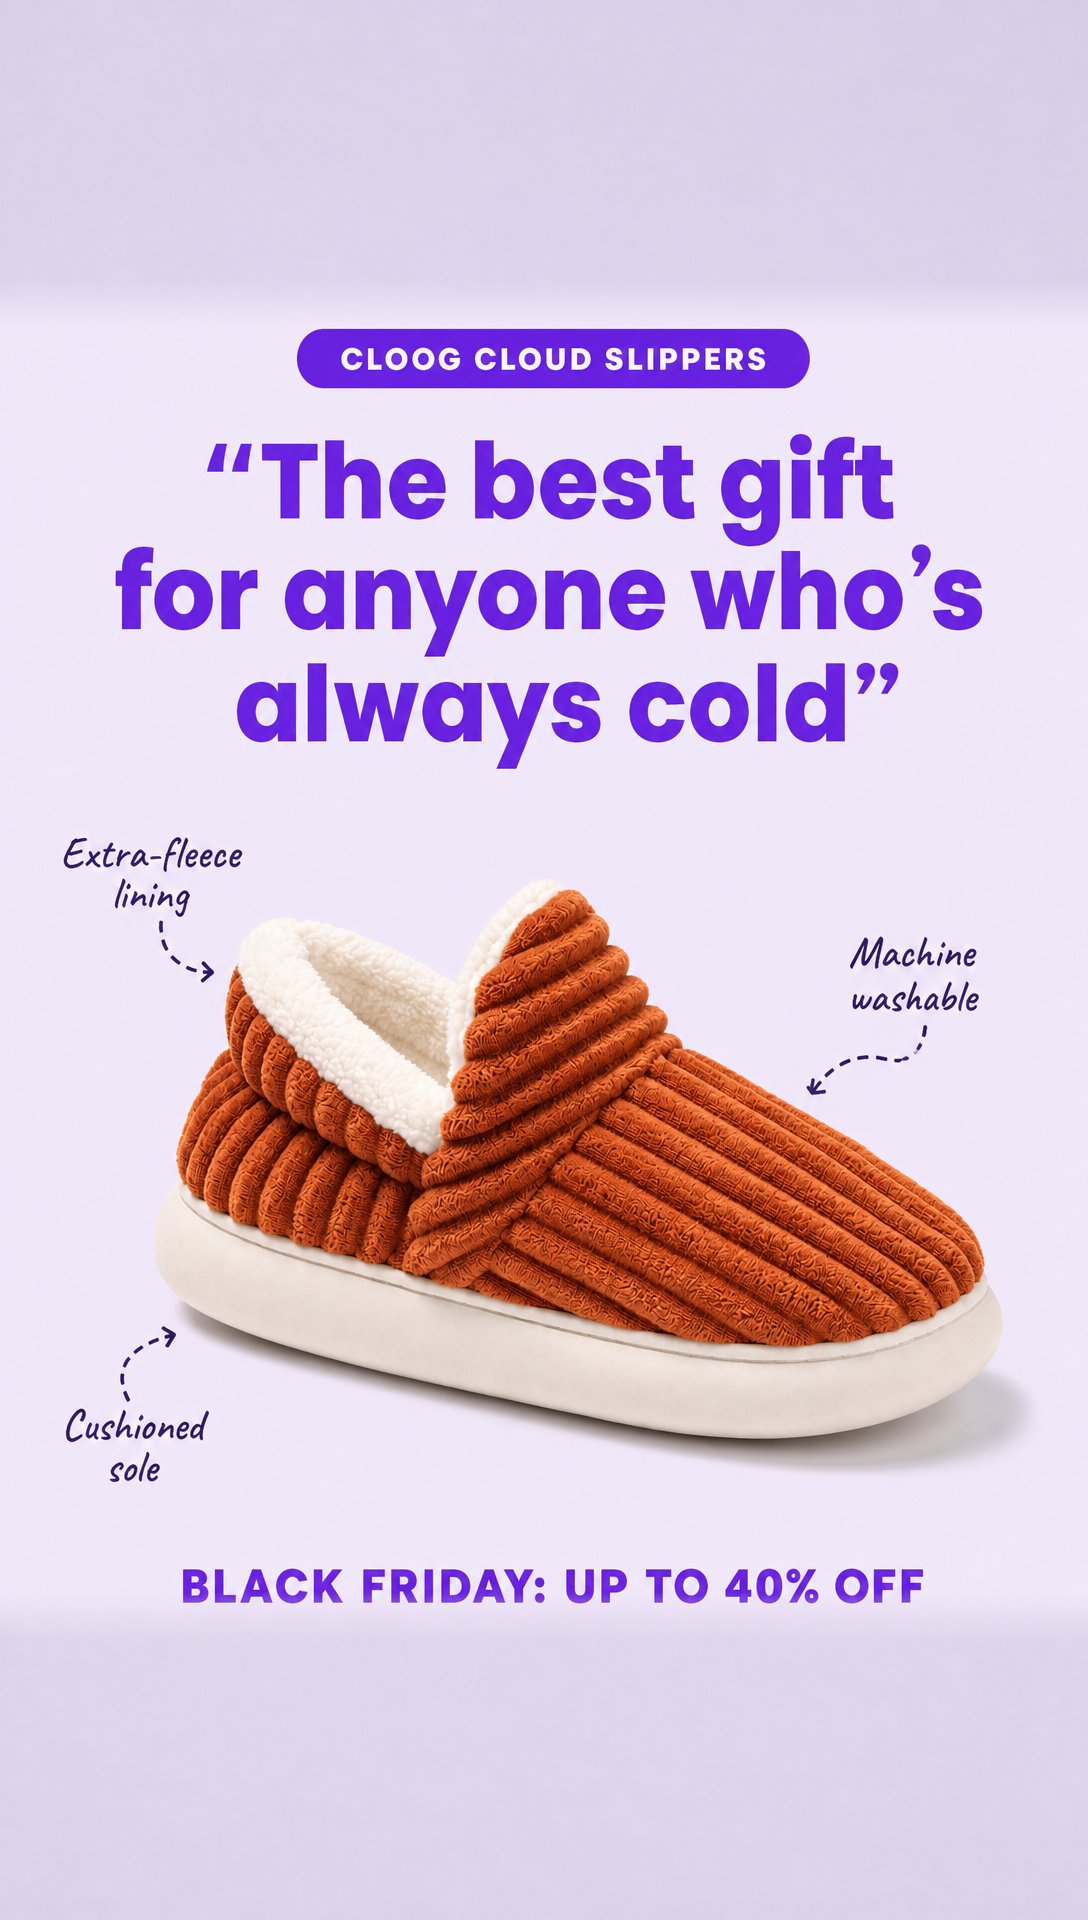
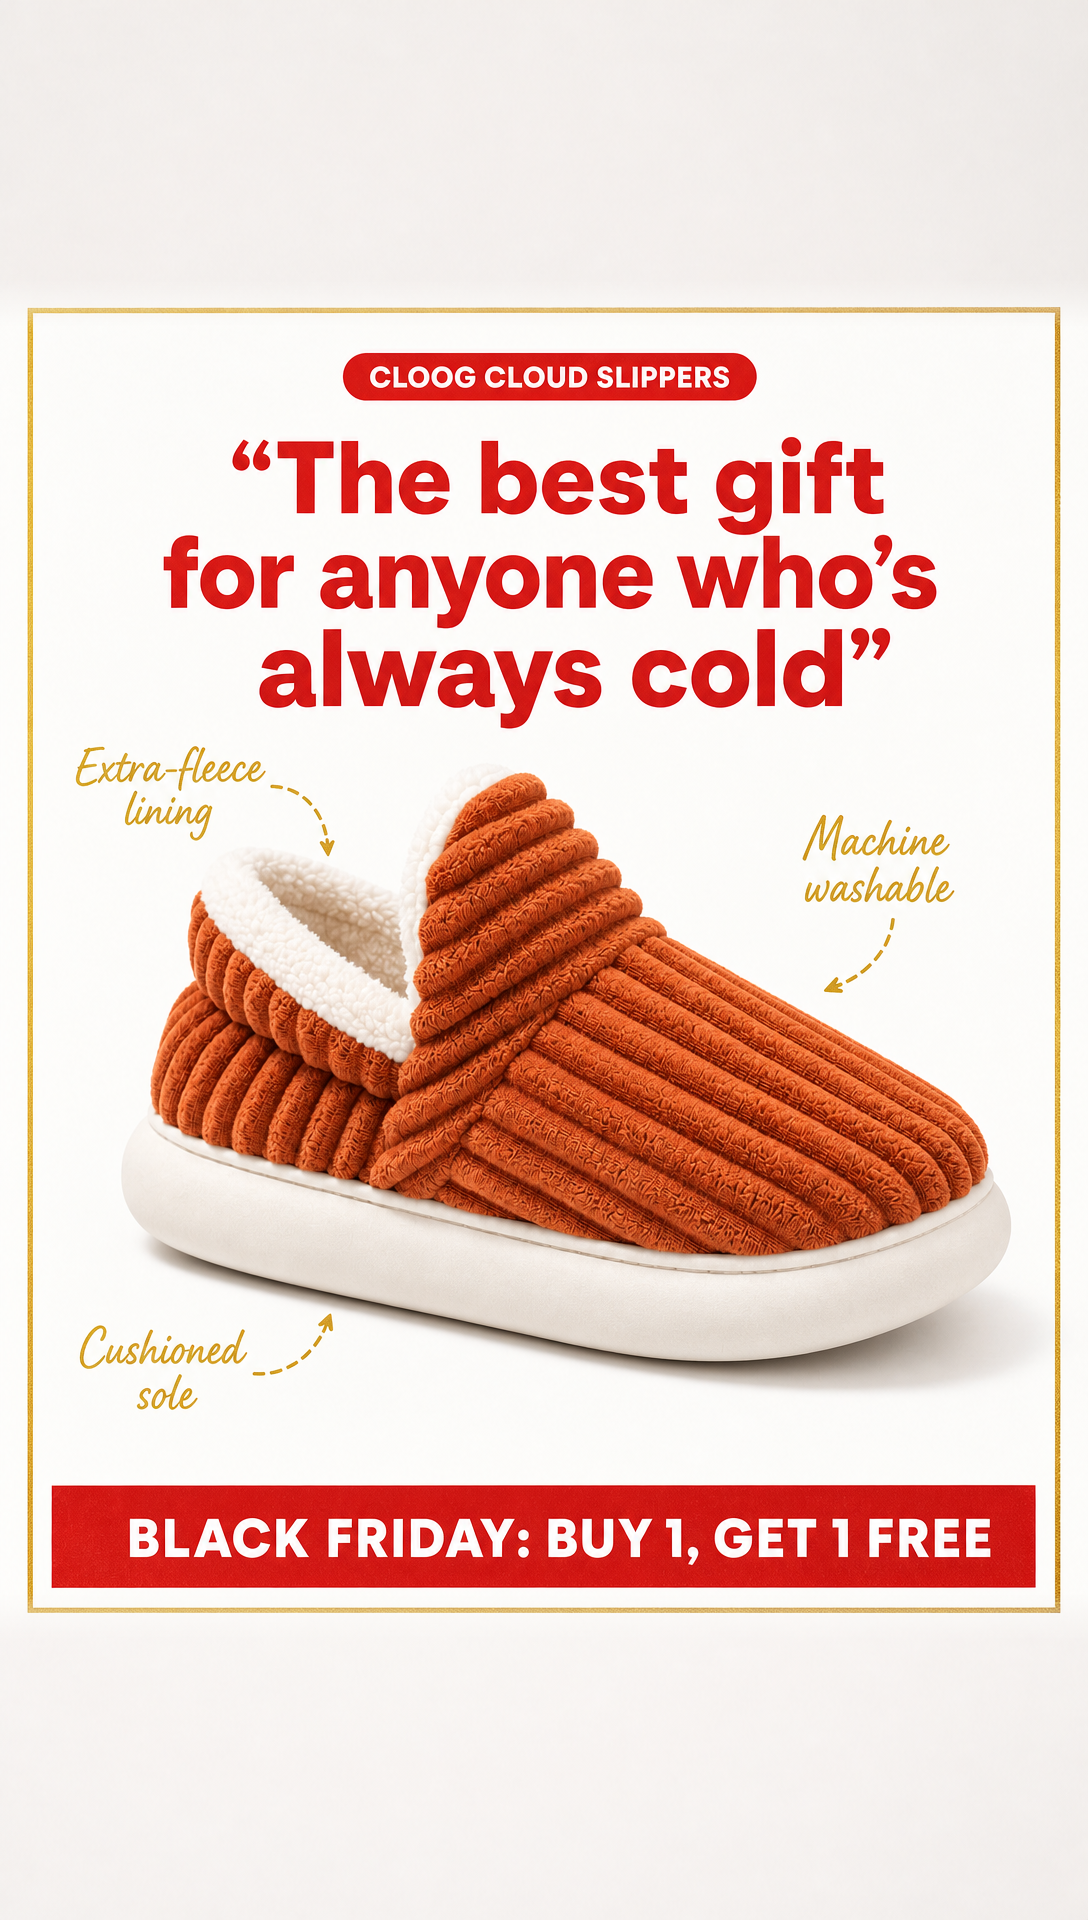
Cloog BF batch: Buy 1 Get 1 Free offer and white/red/gold Black Friday theme
Claude-Session: https://claude.ai/code/session_01Mp8pTtDCLXPa9c2cp6bYT4

diff --git a/ads/brands/comfortwear_cloogs/research/analysis.md b/ads/brands/comfortwear_cloogs/research/analysis.md
@@ -59,7 +59,6 @@ gift stacks, B2G1/BOGO bundles. These need a confirmed offer.
 
 ## 4. Open items for the user
 
-- Confirm the Black Friday offer. Renders use the placeholder "Up to 40% OFF". If it's BOGO, B2G1 or
-  $ off, the offer concepts get re-rendered.
+- Black Friday offer confirmed 2026-10-31: Cloogs are Buy 1, Get 1 FREE (sitewide BF is 60% off, not used on Cloog ads).
 - Confirm whether the money-back guarantee, free returns, "500,000+ customers" and "4.87/5" may appear
   in ads.
